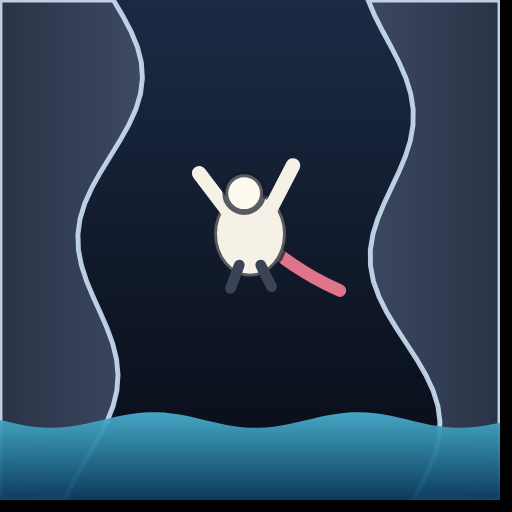
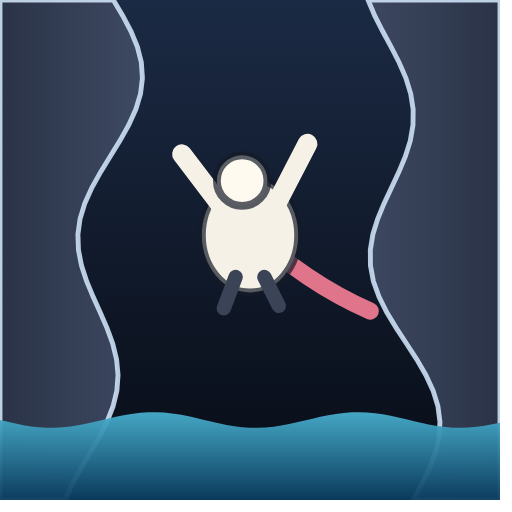
Ikony hry místo výchozího loga Capacitoru
Obě nativní aplikace měly pořád placeholder z Capacitoru — modré "X" na
bílém pozadí. Ikona hry existovala jen pro webovou verzi. Build by tedy
skončil v telefonu s cizím logem a Apple takový placeholder při
schvalování běžně zamítá.

Přidán generátor (dev/ikony-gen.html + scripts/gen-ikony.js), který
z jednoho zdroje vyrobí všech 22 souborů pro web, iOS i Android. Ikona
je kreslená canvasem, ne obrázek, takže jde vygenerovat v jakékoli
velikosti bez ztráty kvality.

Tři věci, které se přitom ukázaly:

1) Android měl v adaptivní ikoně natvrdo BÍLÉ pozadí. Postava je světle
   krémová, takže by na něm prakticky zmizela — zbyly by z ní tmavé
   nožičky. Pozadí je teď obrázek rokliny.

2) Postava byla na scéně tak malá, že v reálné velikosti na ploše
   (kolem 60 px) z ikony zbyl jen tmavý čtvereček. Zvětšena o třetinu.
   Ověřeno v novém dev/ikony-nahled.html, který ukazuje ořez do kolečka,
   squircle, čtverce i kapky a čitelnost v malých velikostech.

3) Headless Chrome se u oken menších než ~96 px zasekne a screenshot
   nikdy nedokončí (48 i 72 px spolehlivě vytimeoutovaly, 96 px a víc
   proběhlo do 1,2 s). Skript proto malé ikony kreslí ve velkém okně
   a zmenšuje je měřítkem zařízení. Bez toho generátor tiše visel.

Verze zvýšena na v57, protože icons/icon-512.png je v cache service
workeru.

Changed region(s): [[0.3125, 0.25, 0.75, 0.625], [0.0, 0.0, 1.0, 1.0]]

diff --git a/dev/ikony-gen.html b/dev/ikony-gen.html
@@ -1,0 +1,129 @@
+<!DOCTYPE html>
+<html><head><meta charset="utf-8">
+<style>html,body{margin:0;padding:0;overflow:hidden;background:transparent}canvas{display:block}</style>
+</head><body>
+<canvas id="c"></canvas>
+<script>
+/* Generátor ikon pro všechny platformy. Kresba je stejná jako v dev/icon.html,
+   jen rozdělená do funkcí, aby šla vykreslit i po částech.
+
+   Režim se předává v adrese (?m=…):
+     full      celá scéna — iOS, web i starší android mipmapy. Barva sahá
+               do rohů (systém ořezává až pětinu z každé strany a průhledný
+               okraj by vypadal jako světlý lem) a postava je zvětšená, aby
+               byla poznat i na ploše telefonu. "maskable" je totéž — pro
+               obojí vyhovuje stejná kompozice, tak se needituje dvakrát.
+     bg        jen roklina a voda bez postavy — pozadí adaptivní ikony
+     fg        jen postava, zvětšená do bezpečné zóny — popředí adaptivní ikony
+
+   Velikost = velikost okna, takže se generuje přes headless Chrome
+   s --window-size a --screenshot. */
+
+var S = window.innerWidth;
+var c = document.getElementById('c');
+c.width = S; c.height = S;
+var x = c.getContext('2d');
+
+var rezim = (location.search.match(/m=(\w+)/) || [])[1] || 'full';
+
+function scena(kresliPostavu, kresliPozadi){
+  var u = S / 512;
+  x.save();
+  var W = S;
+
+  if (kresliPozadi){
+    var bg = x.createLinearGradient(0, 0, 0, W);
+    bg.addColorStop(0, '#1b2a44');
+    bg.addColorStop(1, '#070b14');
+    x.fillStyle = bg; x.fillRect(0, 0, W, W);
+
+    /* stěny rokliny */
+    function wall(side){
+      x.beginPath();
+      var edge = side < 0 ? 0 : W;
+      x.moveTo(edge, 0);
+      for (var y = 0; y <= W; y += 16 * u){
+        var d = (0.20 + 0.055 * Math.sin(y / u * 0.020 + (side < 0 ? 0 : 2.4))
+                      + 0.030 * Math.sin(y / u * 0.007 + 1.1)) * W;
+        x.lineTo(side < 0 ? d : W - d, y);
+      }
+      x.lineTo(edge, W);
+      x.closePath();
+      var g = x.createLinearGradient(side < 0 ? 0 : W, 0, W / 2, 0);
+      g.addColorStop(0, '#2a3346');
+      g.addColorStop(1, '#4d5a79');
+      x.fillStyle = g; x.fill();
+      x.strokeStyle = 'rgba(215,235,255,.85)'; x.lineWidth = 5 * u; x.stroke();
+    }
+    wall(-1); wall(1);
+
+    /* voda dole */
+    var w = x.createLinearGradient(0, W * 0.80, 0, W);
+    w.addColorStop(0, 'rgba(80,190,220,.95)');
+    w.addColorStop(1, 'rgba(10,60,95,.95)');
+    x.fillStyle = w;
+    x.beginPath();
+    x.moveTo(0, W);
+    for (var i = 0; i <= W; i += 8 * u) x.lineTo(i, W * 0.84 + Math.sin(i / u * 0.03) * 8 * u);
+    x.lineTo(W, W); x.closePath(); x.fill();
+  }
+
+  if (kresliPostavu) postava(W, u);
+  x.restore();
+}
+
+/* Postava v letu. Kreslí se vždy vůči předanému plátnu, ať jde použít
+   i samostatně jako popředí adaptivní ikony. */
+function postava(W, u){
+  var px = W * 0.50, py = W * 0.46, r = 46 * u;
+
+  x.strokeStyle = '#e0748a'; x.lineWidth = 13 * u; x.lineCap = 'round';
+  x.beginPath(); x.moveTo(px, py);
+  x.quadraticCurveTo(px + 42*u, py + 40*u, px + 92*u, py + 62*u); x.stroke();
+
+  x.beginPath(); x.ellipse(px, py + 4*u, r * 0.80, r * 0.95, 0, 0, 6.283);
+  x.fillStyle = '#f6f1e6'; x.fill();
+  x.strokeStyle = 'rgba(20,26,38,.7)'; x.lineWidth = 6 * u; x.stroke();
+
+  /* ruce vzhůru — bez nich to vypadá jako zvíře, ne jako lezec */
+  x.strokeStyle = '#f6f1e6'; x.lineWidth = 15 * u;
+  x.beginPath();
+  x.moveTo(px - 14*u, py - 8*u); x.lineTo(px - 52*u, py - 58*u);
+  x.moveTo(px + 14*u, py - 8*u); x.lineTo(px + 44*u, py - 66*u);
+  x.stroke();
+
+  x.beginPath(); x.arc(px - 6*u, py - r * 0.82, r * 0.42, 0, 6.283);
+  x.fillStyle = '#fffaf0'; x.fill();
+  x.strokeStyle = 'rgba(20,26,38,.7)'; x.lineWidth = 6 * u; x.stroke();
+
+  x.strokeStyle = '#3b4457'; x.lineWidth = 11 * u;
+  x.beginPath();
+  x.moveTo(px - 11*u, py + r * 0.78); x.lineTo(px - 20*u, py + r * 1.30);
+  x.moveTo(px + 11*u, py + r * 0.78); x.lineTo(px + 22*u, py + r * 1.26);
+  x.stroke();
+}
+
+if (rezim === 'full' || rezim === 'maskable'){
+  /* Jedna kompozice pro web i iOS: pozadí až do rohů (po oříznutí do kolečka
+     nesmí nikde prosvítat plátno) a výrazně větší postava. Původní kresba
+     měla postavu tak malou, že na ploše telefonu (kolem 60 px) z ikony zbyl
+     jen tmavý čtvereček — ověřeno v dev/ikony-nahled.html. */
+  scena(false, true);
+  postava(S, S / 512 * 1.34);
+} else if (rezim === 'fg'){
+  /* Popředí adaptivní ikony: průhledné pozadí, postava zvětšená tak, aby byla
+     na ploše telefonu poznat, ale nevylezla z bezpečné zóny (66 % plátna).
+     Bez zvětšení by byla drobná — adaptivní ikona zobrazuje jen výsek.
+     Svislý posun proto, že postava má ruce nahoře, takže její těžiště je
+     níž než střed kresby a bez posunu by seděla vysoko. */
+  x.save();
+  x.translate(0, S * 0.045);
+  postava(S, S / 512 * 1.55);
+  x.restore();
+} else if (rezim === 'bg'){
+  scena(false, true);
+} else {
+  scena(true, true);
+}
+</script>
+</body></html>

diff --git a/dev/ikony-nahled.html b/dev/ikony-nahled.html
@@ -1,0 +1,110 @@
+<!DOCTYPE html>
+<html lang="cs">
+<head>
+<meta charset="utf-8">
+<title>Náhled ikon — No Way But Up</title>
+<style>
+  body{ margin:0; padding:28px 20px 60px; background:#12151c; color:#e6edf7;
+        font:15px/1.55 system-ui, sans-serif; }
+  main{ max-width:900px; margin:0 auto; }
+  h1{ font-size:1.4rem; margin:0 0 4px; }
+  .pod{ color:#8b9bb0; margin:0 0 26px; font-size:.9rem; }
+  h2{ font-size:1rem; margin:30px 0 4px; color:#9fd4ff; }
+  .poznamka{ color:#8b9bb0; font-size:.85rem; margin:0 0 12px; }
+  .rada{ display:flex; gap:22px; flex-wrap:wrap; align-items:flex-end; }
+  .kus{ text-align:center; }
+  .kus span{ display:block; margin-top:7px; color:#8b9bb0; font-size:.75rem; }
+  .plocha{ background:#1c2230; padding:16px; border-radius:14px; }
+  /* tvary, do kterých si výrobci telefonů ikonu ořezávají */
+  .kruh{ border-radius:50%; }
+  .squircle{ border-radius:24%; }
+  .ctverec{ border-radius:12%; }
+  .kapka{ border-radius:50% 50% 50% 12%; }
+  .slozena{ position:relative; overflow:hidden; }
+  .slozena img{ position:absolute; inset:0; width:100%; height:100%; }
+  img{ display:block; }
+</style>
+</head>
+<body>
+<main>
+
+<h1>Náhled ikon</h1>
+<p class="pod">Jak bude ikona vypadat po tom, co si ji telefon ořízne do svého tvaru.</p>
+
+<h2>Android — adaptivní ikona (pozadí + postava zvlášť)</h2>
+<p class="poznamka">Každý výrobce ořezává jinak. Ve všech tvarech musí zůstat postava celá a barva musí sahat až k okraji.</p>
+<div class="rada" id="adaptivni"></div>
+
+<h2>iOS — ikona na ploše</h2>
+<p class="poznamka">Apple ořezává jen rohy, obsah zůstává. Vlevo skutečná velikost na ploše, vpravo zvětšeno.</p>
+<div class="rada" id="ios"></div>
+
+<h2>Web / PWA — maskable</h2>
+<p class="poznamka">Když si hru přidáš na plochu z prohlížeče.</p>
+<div class="rada" id="web"></div>
+
+<h2>Malé velikosti — test čitelnosti</h2>
+<p class="poznamka">Takhle malá ikona je na ploše telefonu ve skutečnosti. Pozná se na první pohled, že jde o tvoji hru?</p>
+<div class="rada" id="male"></div>
+
+</main>
+<script>
+/* Cesty s časovým razítkem: bez něj prohlížeč po přegenerování ikon ukazuje
+   staré obrázky z cache a vypadá to, že se změna neprojevila. */
+var T = '?t=' + Date.now();
+var ADAPTIVNI_BG = '../android/app/src/main/res/mipmap-xxxhdpi/ic_launcher_background.png' + T;
+var ADAPTIVNI_FG = '../android/app/src/main/res/mipmap-xxxhdpi/ic_launcher_foreground.png' + T;
+var IOS = '../ios/App/App/Assets.xcassets/AppIcon.appiconset/AppIcon-512@2x.png' + T;
+var MASKABLE = '../icons/icon-512.png' + T;
+
+/* Adaptivní ikona se skládá ze dvou vrstev a systém zobrazí jen její střed
+   (zhruba 72 ze 108 dílků), proto se obě vrstvy zvětšují o 150 %. */
+function slozena(velikost, tvar){
+  var d = document.createElement('div');
+  d.className = 'slozena ' + tvar;
+  d.style.cssText += 'width:' + velikost + 'px;height:' + velikost + 'px';
+  var vnitrek = document.createElement('div');
+  vnitrek.style.cssText = 'position:absolute;inset:-25%;';
+  vnitrek.innerHTML = '<img src="' + ADAPTIVNI_BG + '"><img src="' + ADAPTIVNI_FG + '">';
+  d.appendChild(vnitrek);
+  return d;
+}
+
+function kus(prvek, popis){
+  var w = document.createElement('div');
+  w.className = 'kus';
+  var p = document.createElement('div');
+  p.className = 'plocha';
+  p.appendChild(prvek);
+  w.appendChild(p);
+  var s = document.createElement('span');
+  s.textContent = popis;
+  w.appendChild(s);
+  return w;
+}
+
+function obrazek(src, velikost, tvar){
+  var i = document.createElement('img');
+  i.src = src; i.width = velikost; i.height = velikost;
+  i.className = tvar || '';
+  return i;
+}
+
+['kruh', 'squircle', 'ctverec', 'kapka'].forEach(function(t){
+  var jmena = { kruh:'kolečko (Pixel)', squircle:'squircle (Samsung)', ctverec:'čtvereček', kapka:'kapka' };
+  document.getElementById('adaptivni').appendChild(kus(slozena(120, t), jmena[t]));
+});
+
+document.getElementById('ios').appendChild(kus(obrazek(IOS, 60, 'squircle'), 'skutečná velikost'));
+document.getElementById('ios').appendChild(kus(obrazek(IOS, 160, 'squircle'), 'zvětšeno'));
+
+document.getElementById('web').appendChild(kus(obrazek(MASKABLE, 120, 'kruh'), 'kolečko'));
+document.getElementById('web').appendChild(kus(obrazek(MASKABLE, 120, 'squircle'), 'squircle'));
+document.getElementById('web').appendChild(kus(obrazek(MASKABLE, 120), 'bez ořezu'));
+
+[48, 60, 72, 96].forEach(function(v){
+  document.getElementById('male').appendChild(kus(slozena(v, 'squircle'), v + ' px'));
+});
+</script>
+</body>
+</html>

diff --git a/scripts/gen-ikony.js b/scripts/gen-ikony.js
@@ -1,0 +1,81 @@
+/* Vygeneruje ikony pro web, iOS i Android z jednoho zdroje (dev/ikony-gen.html).
+   Spouští se ručně: node scripts/gen-ikony.js
+   Není součástí buildu — ikony se mění zřídka a výsledky jsou v gitu.
+
+   Kreslí headless Chrome, protože ikona je canvas, ne obrázek. Velikost se
+   řídí velikostí okna, takže každá velikost je vlastní spuštění. */
+
+const { execFileSync } = require('child_process');
+const fs = require('fs');
+const path = require('path');
+
+const KOREN = path.resolve(__dirname, '..');
+const GENERATOR = 'file:///' + path.join(KOREN, 'dev', 'ikony-gen.html').replace(/\\/g, '/');
+
+/* Na tomhle stroji je Chrome v "Program Files (x86)" — zkoušíme obě obvyklé
+   cesty, ať skript funguje i jinde. */
+const CHROME = [
+  'C:\\Program Files (x86)\\Google\\Chrome\\Application\\chrome.exe',
+  'C:\\Program Files\\Google\\Chrome\\Application\\chrome.exe',
+].find((p) => fs.existsSync(p));
+
+if (!CHROME){ console.error('Chrome nenalezen — uprav cestu v CHROME.'); process.exit(1); }
+
+/* Co všechno se generuje.
+   iOS chce jediný soubor 1024×1024, zbytek si Xcode odvodí sám.
+   Android potřebuje dvě sady: starší mipmapy (celá ikona) a adaptivní
+   ikonu rozdělenou na pozadí a popředí — tu si systém ořízne do tvaru,
+   který si výrobce telefonu zvolí (kolečko, čtvereček, kapka).
+   Web má navíc "maskable" variantu se zmenšenou kresbou, protože ta se
+   na ploše ořezává stejně jako na Androidu. */
+const HUSTOTY = { mdpi: 1, hdpi: 1.5, xhdpi: 2, xxhdpi: 3, xxxhdpi: 4 };
+
+const ULOHY = [
+  { rezim: 'full', velikost: 1024, cil: 'ios/App/App/Assets.xcassets/AppIcon.appiconset/AppIcon-512@2x.png' },
+  { rezim: 'full', velikost: 512,  cil: 'icons/icon-512.png' },
+];
+
+for (const [hustota, nasobek] of Object.entries(HUSTOTY)){
+  const mip = `android/app/src/main/res/mipmap-${hustota}`;
+  ULOHY.push({ rezim: 'full', velikost: Math.round(48 * nasobek),  cil: `${mip}/ic_launcher.png` });
+  ULOHY.push({ rezim: 'full', velikost: Math.round(48 * nasobek),  cil: `${mip}/ic_launcher_round.png` });
+  ULOHY.push({ rezim: 'fg',       velikost: Math.round(108 * nasobek), cil: `${mip}/ic_launcher_foreground.png` });
+  ULOHY.push({ rezim: 'bg',       velikost: Math.round(108 * nasobek), cil: `${mip}/ic_launcher_background.png` });
+}
+
+/* POZOR, ověřeno měřením: headless Chrome se u oken menších než zhruba 96 px
+   zasekne a screenshot nikdy nedokončí (48 i 72 px spolehlivě vytimeoutovaly,
+   96 px a víc proběhlo do 1,2 s). Malé ikony proto kreslíme ve velkém okně
+   a necháme je zmenšit měřítkem zařízení — výsledek má přesně požadované
+   rozměry. Bez tohohle obchvatu skript tiše visí na první android mipmapě. */
+const MIN_OKNO = 96;
+
+let hotovo = 0;
+for (const u of ULOHY){
+  const cil = path.join(KOREN, u.cil);
+  fs.mkdirSync(path.dirname(cil), { recursive: true });
+
+  const male = u.velikost < MIN_OKNO;
+  const okno = male ? 384 : u.velikost;
+  const argy = [
+    '--headless', '--disable-gpu', '--hide-scrollbars',
+    '--default-background-color=00000000',      // průhledné pozadí kvůli režimu fg
+    `--screenshot=${cil}`,
+    `--window-size=${okno},${okno}`,
+  ];
+  if (male) argy.push(`--force-device-scale-factor=${u.velikost / okno}`);
+  argy.push(`${GENERATOR}?m=${u.rezim}`);
+
+  execFileSync(CHROME, argy, { stdio: 'ignore', timeout: 30000 });
+
+  const b = fs.readFileSync(cil);
+  const w = b.readUInt32BE(16), h = b.readUInt32BE(20);
+  if (w !== u.velikost || h !== u.velikost){
+    console.error(`CHYBA ${u.cil}: čekáno ${u.velikost}px, vzniklo ${w}x${h}`);
+    process.exit(1);
+  }
+  console.log(`${String(u.rezim).padEnd(9)} ${String(u.velikost).padStart(4)}px  ${u.cil}`);
+  hotovo++;
+}
+
+console.log(`\nHotovo: ${hotovo} souborů.`);

diff --git a/js/config.js b/js/config.js
@@ -18,4 +18,4 @@ const REVENUECAT_KLIC_IOS = '';
 
 /* Číslo verze v rohu obrazovky — musí sedět s VERZE v sw.js, ať Matyáš
    na první pohled pozná, jestli se mu appka na telefonu aktualizovala. */
-const VERZE_ZOBRAZENI = 'v56';
+const VERZE_ZOBRAZENI = 'v57';

diff --git a/sw.js b/sw.js
@@ -2,7 +2,7 @@
    Při každé změně hry zvyš VERZI — jinak si telefon nechá starou verzi.
    (Měnit ji Editem, ne PowerShellem, jinak se rozbije diakritika.) */
 
-const VERZE = 'skok-v56';
+const VERZE = 'skok-v57';
 
 const SOUBORY = [
   './',
